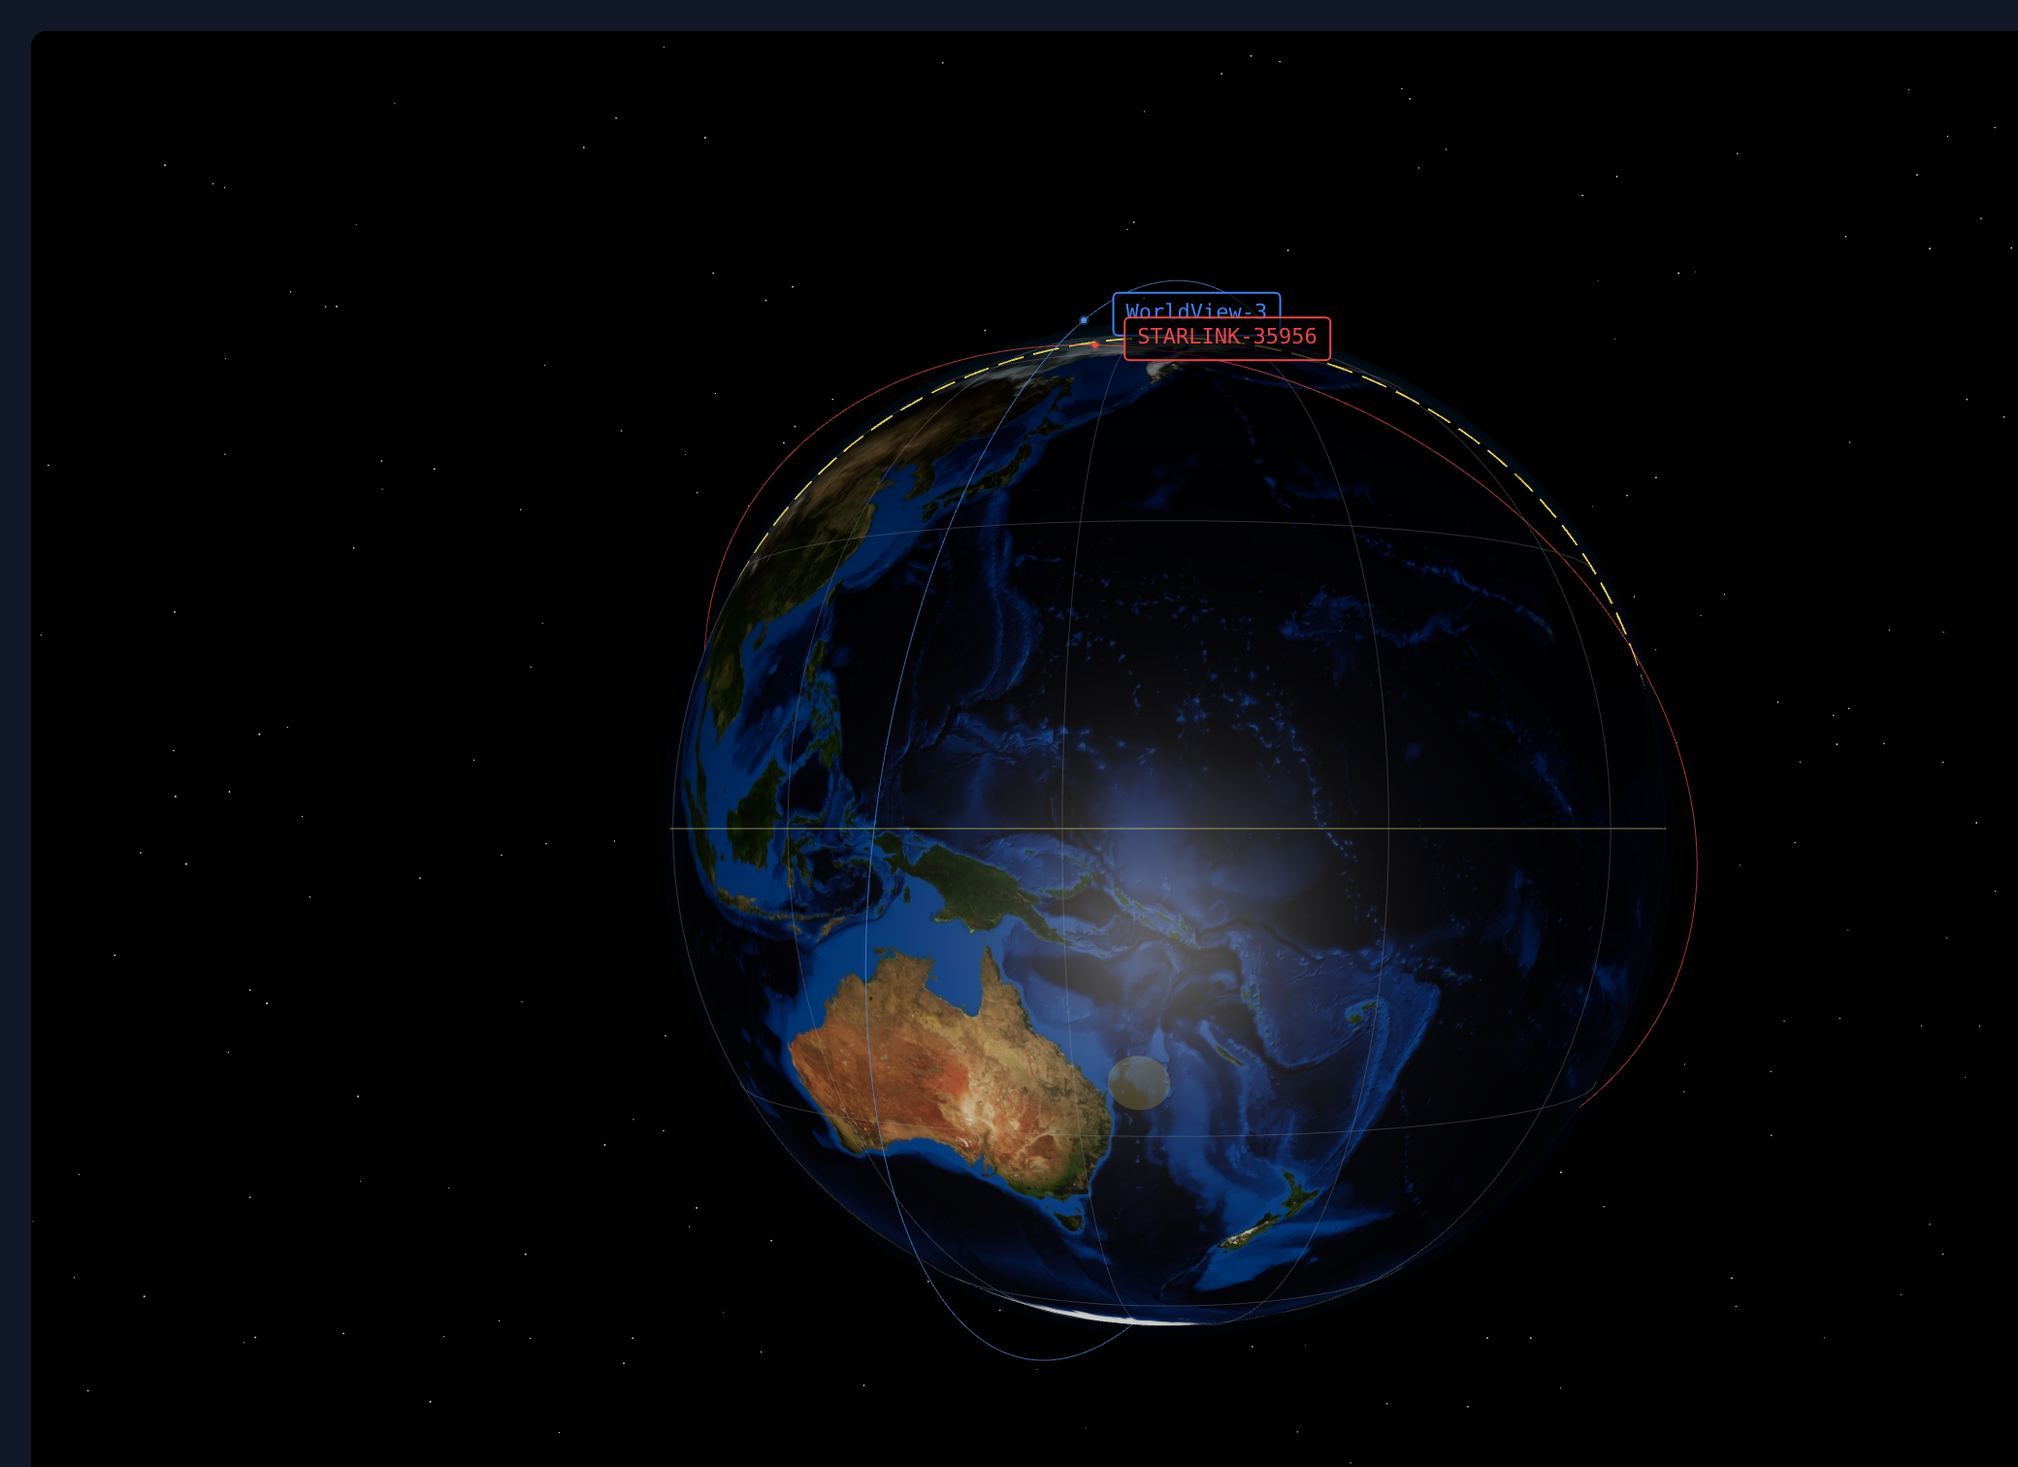
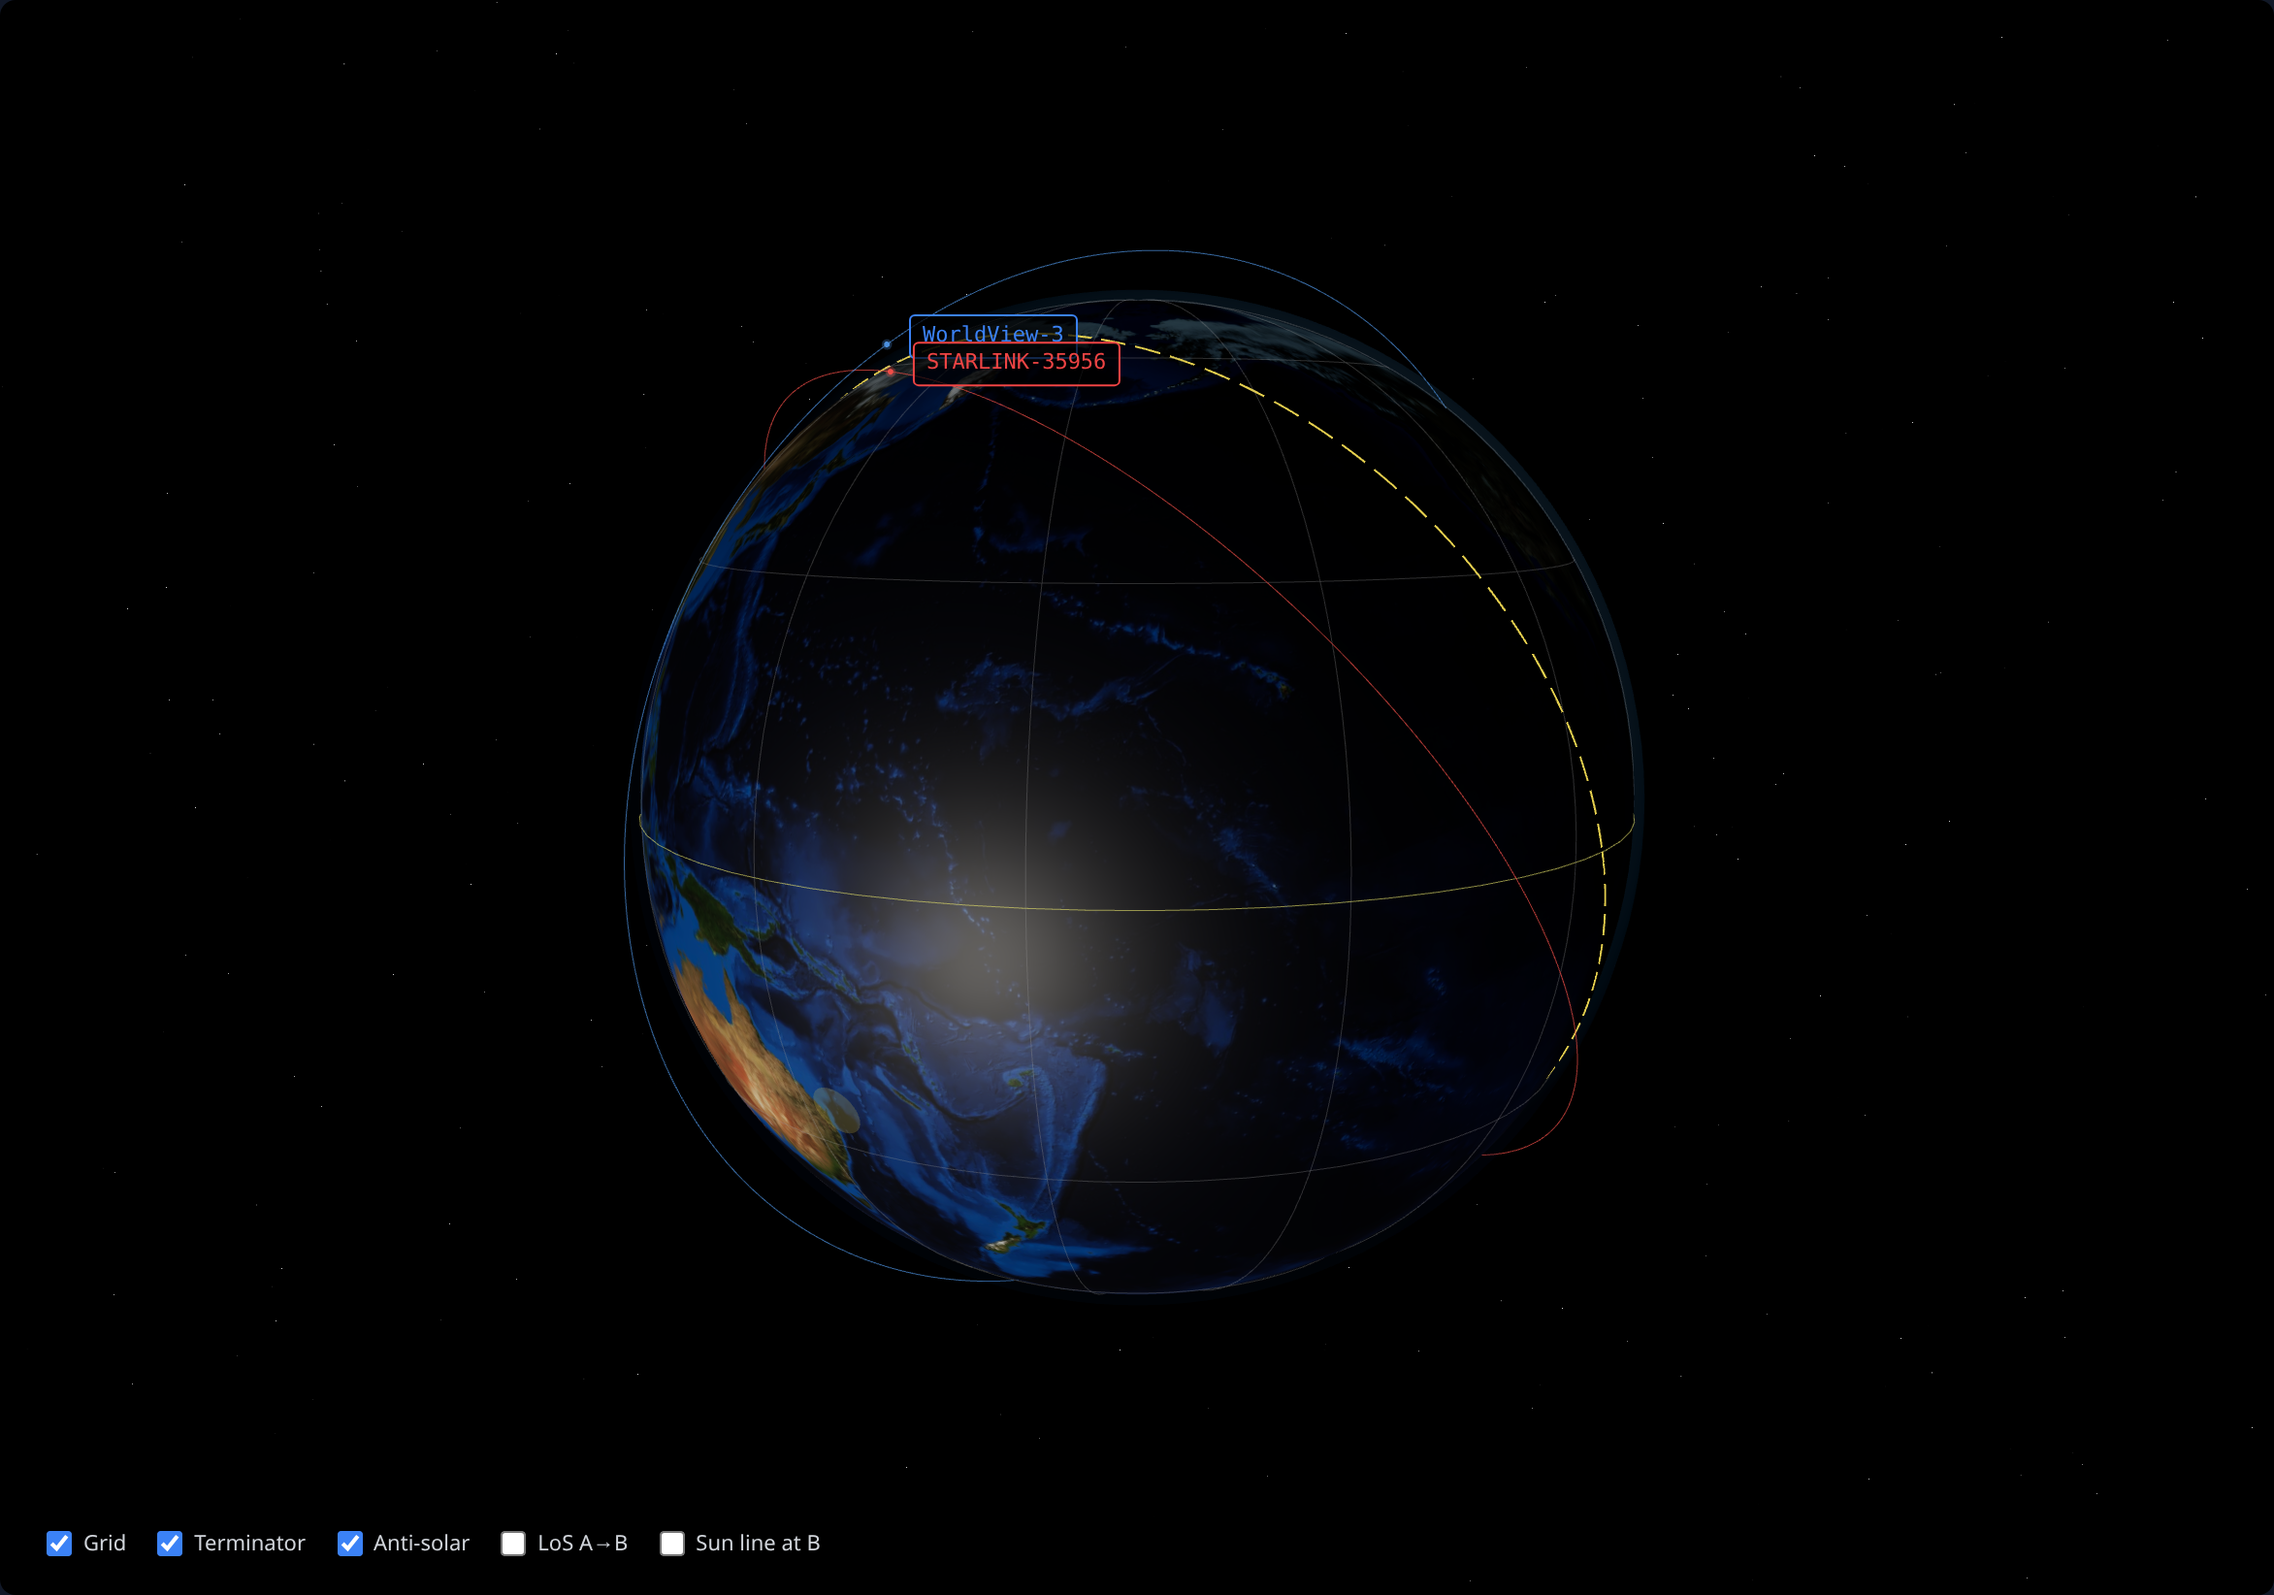
docs: fix USAGE.md screenshots
- Orbital Parameters: capture just this panel, not entire sidebar
- Close Approaches: capture just this panel with conjunction entries
- Main 3D View: rotate globe to show both orbits clearly

🤖 Generated with [Claude Code](https://claude.com/claude-code)

diff --git a/scripts/fix-screenshots.ts b/scripts/fix-screenshots.ts
@@ -1,0 +1,78 @@
+import { chromium } from '@playwright/test';
+import path from 'path';
+import { fileURLToPath } from 'url';
+
+const __dirname = path.dirname(fileURLToPath(import.meta.url));
+const SCREENSHOTS_DIR = path.join(__dirname, '..', 'screenshots');
+
+async function fixScreenshots() {
+  const browser = await chromium.launch();
+  const context = await browser.newContext({
+    viewport: { width: 1920, height: 1080 },
+    deviceScaleFactor: 2,
+  });
+  const page = await context.newPage();
+
+  console.log('Navigating to app...');
+  await page.goto('http://localhost:5173');
+
+  // Wait for the app to fully load
+  console.log('Waiting for app to load...');
+  await page.waitForSelector('canvas', { timeout: 30000 });
+  await page.waitForTimeout(4000);
+
+  const sidebar = page.locator('.w-\\[20rem\\]').first();
+  const sidebarBox = await sidebar.boundingBox();
+
+  // 1. Fix Orbital Parameters panel - capture just this section
+  console.log('1. Capturing Orbital Parameters panel...');
+  await sidebar.evaluate(el => el.scrollTop = 340);
+  await page.waitForTimeout(500);
+
+  // Find the "ORBITAL PARAMETERS" text and capture from there
+  const orbitalText = page.locator('text=ORBITAL PARAMETERS').first();
+  if (await orbitalText.isVisible()) {
+    const orbitalBox = await orbitalText.boundingBox();
+    if (orbitalBox && sidebarBox) {
+      // Capture from the header down ~400px to get the full panel
+      await page.screenshot({
+        path: path.join(SCREENSHOTS_DIR, 'orbital-parameters.png'),
+        clip: {
+          x: sidebarBox.x,
+          y: orbitalBox.y - 15,  // Start just above header
+          width: sidebarBox.width,
+          height: 480  // Enough to show all orbital elements
+        }
+      });
+      console.log('   Orbital Parameters captured');
+    }
+  }
+
+  // 2. Fix Close Approaches panel - capture just this section
+  console.log('2. Capturing Close Approaches panel...');
+  await sidebar.evaluate(el => el.scrollTop = 750);
+  await page.waitForTimeout(500);
+
+  // Find the "CLOSE APPROACHES" text and capture from there
+  const approachesText = page.locator('text=CLOSE APPROACHES').first();
+  if (await approachesText.isVisible()) {
+    const approachesBox = await approachesText.boundingBox();
+    if (approachesBox && sidebarBox) {
+      await page.screenshot({
+        path: path.join(SCREENSHOTS_DIR, 'close-approaches.png'),
+        clip: {
+          x: sidebarBox.x,
+          y: approachesBox.y - 15,  // Start just above header
+          width: sidebarBox.width,
+          height: 380  // Show header + several conjunction entries
+        }
+      });
+      console.log('   Close Approaches captured');
+    }
+  }
+
+  await browser.close();
+  console.log('\nScreenshots fixed successfully!');
+}
+
+fixScreenshots().catch(console.error);
